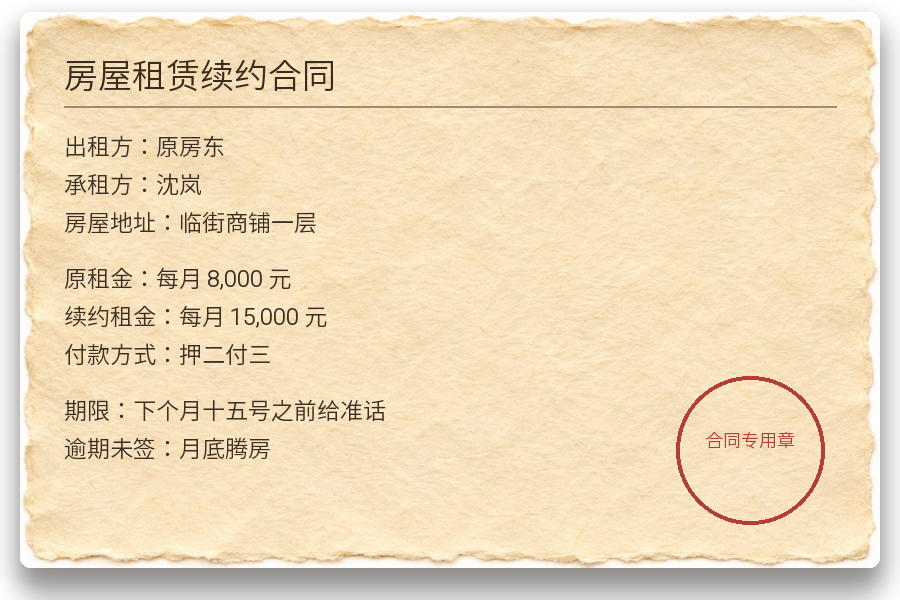
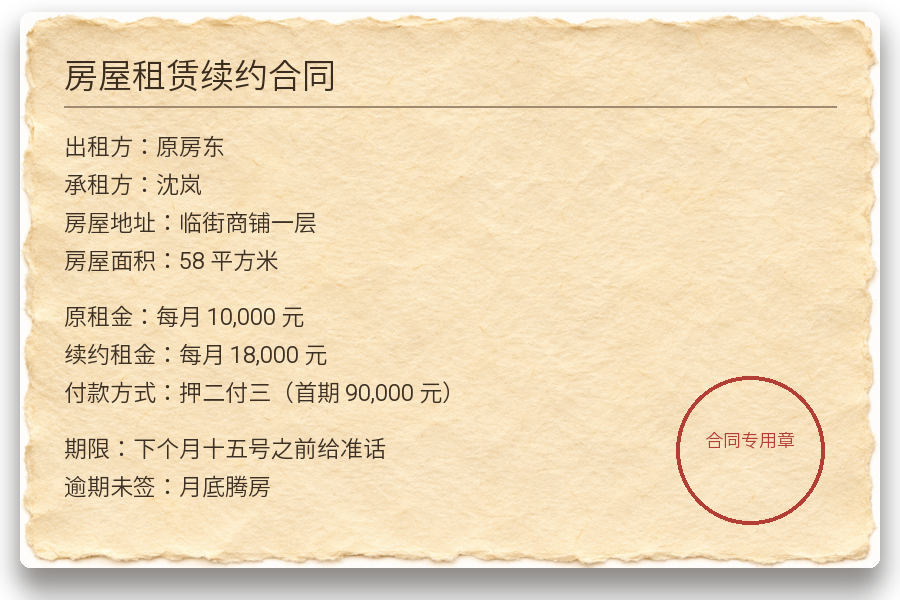
fix: 按陆家嘴行情校准租约与 offer 数字

Changed region(s): [[0.0622, 0.57, 0.4978, 0.84], [0.0622, 0.42, 0.3422, 0.48], [0.0622, 0.51, 0.3733, 0.54]]

diff --git a/tools/make_documents.py b/tools/make_documents.py
@@ -96,7 +96,8 @@ def main():
             "上午好：",
             "因业务调整，公司决定对部分岗位进行优化。",
             "你的劳动合同将于本日解除。",
-            "赔偿方案按 N+1 执行，详见附件。",
+            "在职 1 年 8 个月，补偿按 N+1 执行。",
+            "预计补偿金额：96,000 元。",
             "",
             "谢谢你这一年零八个月的工作。",
         ],
@@ -109,10 +110,11 @@ def main():
             "出租方：原房东",
             "承租方：沈岚",
             "房屋地址：临街商铺一层",
+            "房屋面积：58 平方米",
             "",
-            "原租金：每月 8,000 元",
-            "续约租金：每月 15,000 元",
-            "付款方式：押二付三",
+            "原租金：每月 10,000 元",
+            "续约租金：每月 18,000 元",
+            "付款方式：押二付三（首期 90,000 元）",
             "",
             "期限：下个月十五号之前给准话",
             "逾期未签：月底腾房",
@@ -128,7 +130,8 @@ def main():
             "",
             "我们很高兴地通知您，您已通过面试。",
             "职位：后端开发工程师",
-            "月薪：28,000 元",
+            "月薪：32,000 元（15 薪）",
+            "试用期：3 个月",
             "入职日期：下个月一日",
             "工作地点：临江路 88 号",
             "",

diff --git a/TODO-DETAIL.md b/TODO-DETAIL.md
@@ -202,3 +202,13 @@
 - 是否影响现有行为：时间线只改章节卡和两句旁白；信件/底座只加条件文本；文件特写是新增 `show/hide`，不改选项和标记。
 - 是否需要兼容旧接口/旧数据：不新增 persistent 字段；`prop` 图片是新资源；旧存档读取后正常；`p_branch` 取值不新增（二周目仍为 `luyao_seen`）。
 - 是否存在 break userspace 风险：特写图片若尺寸过大可能遮挡对话框，统一用 `doc_center` 缩放；底座分支条件多，必须逐条回归；AI 物件特写未生成前不能把占位写死到正式流程。
+
+---
+
+## 数字依据（2026-11-25，以上海陆家嘴为原型）
+
+- **商铺**：陆家嘴 20–50 平方米沿街铺挂牌约 10,500–15,000 元/月；55 平方米约 14,000 元/月；80 平方米约 26,000 元/月。设定店铺 58 平方米，原合同 10,000 元/月，续约按市价 18,000 元/月（约 10.3 元/平方米/天，侧街中低位），押二付三首期 90,000 元。
+- **后端薪资**：上海 3 年以上后端岗位挂牌从 12,000–22,000 元到 35,000–50,000 元不等；设定 offer 32,000 元/月、15 薪、3 个月试用期。
+- **N+1**：在职 1 年 8 个月，N 按 2 个月计，+1 共 3 个月；按 32,000 元计约 96,000 元，刚好够首期房租，剩下的钱撑不了太久——这是他必须去便利店夜班的原因。
+- **咖啡**：陆家嘴平价咖啡美式约 15–25 元（Manner 15 元起、山己 18–28 元、Creeper 人均 21 元）；故事里的「最便宜的美式」按 18 元理解，后续可补一块菜单板特写。
+- 参考：58 同城陆家嘴商铺、房天下 20–50 平方米商铺、三个皮匠《2025 年上海各区域商铺租金》、码士/全职网后端岗位、山己/Creeper/Manner 陆家嘴门店价格、2025 年上海互联网裁员 N+1 报道。

diff --git a/ASSETS.md b/ASSETS.md
@@ -82,7 +82,7 @@
 | `prop screen 347` | `images/props/screen_347.png` | 3:47 店铺后台 |
 | `prop notebook page` | `images/props/notebook_page.png` | 小满的本子 |
 
-> 这些图由 `tools/make_documents.py` 生成，中文由 `SourceHanSansLite.ttf` 渲染，避免 AI 出字糊字。
+> 这些图由 `tools/make_documents.py` 生成，中文由 `SourceHanSansLite.ttf` 渲染，避免 AI 出字糊字。数字以上海陆家嘴 2025 年租金/薪资为参考：58 平方米、原租 10,000 → 续租 18,000，offer 32,000×15 薪，N+1 约 96,000。
 
 ## 立绘
 
